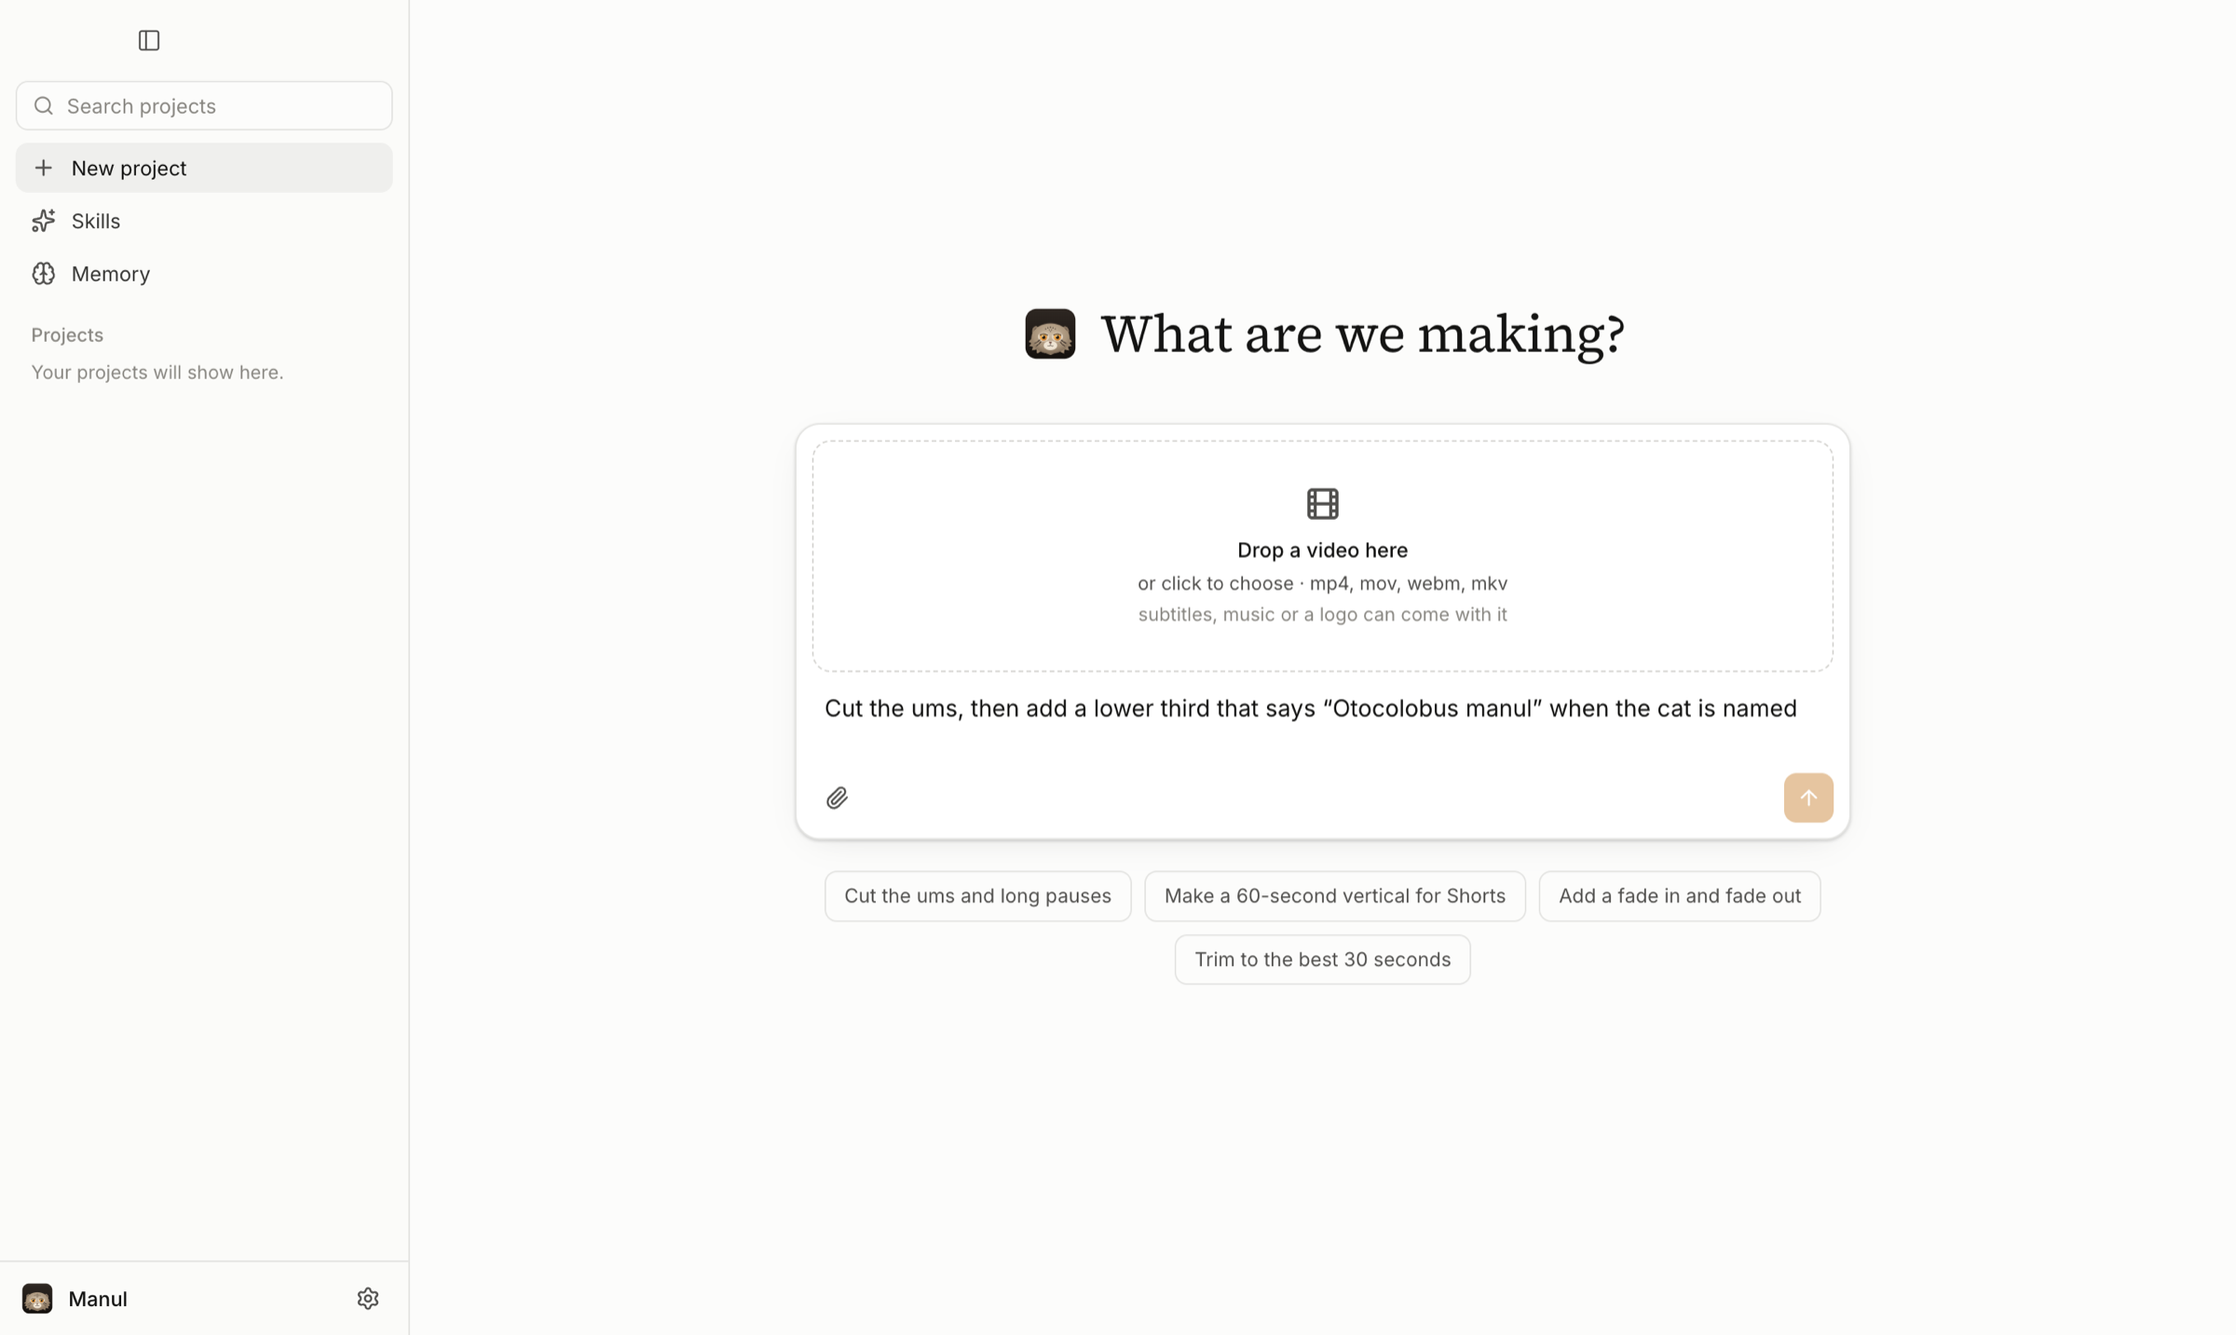
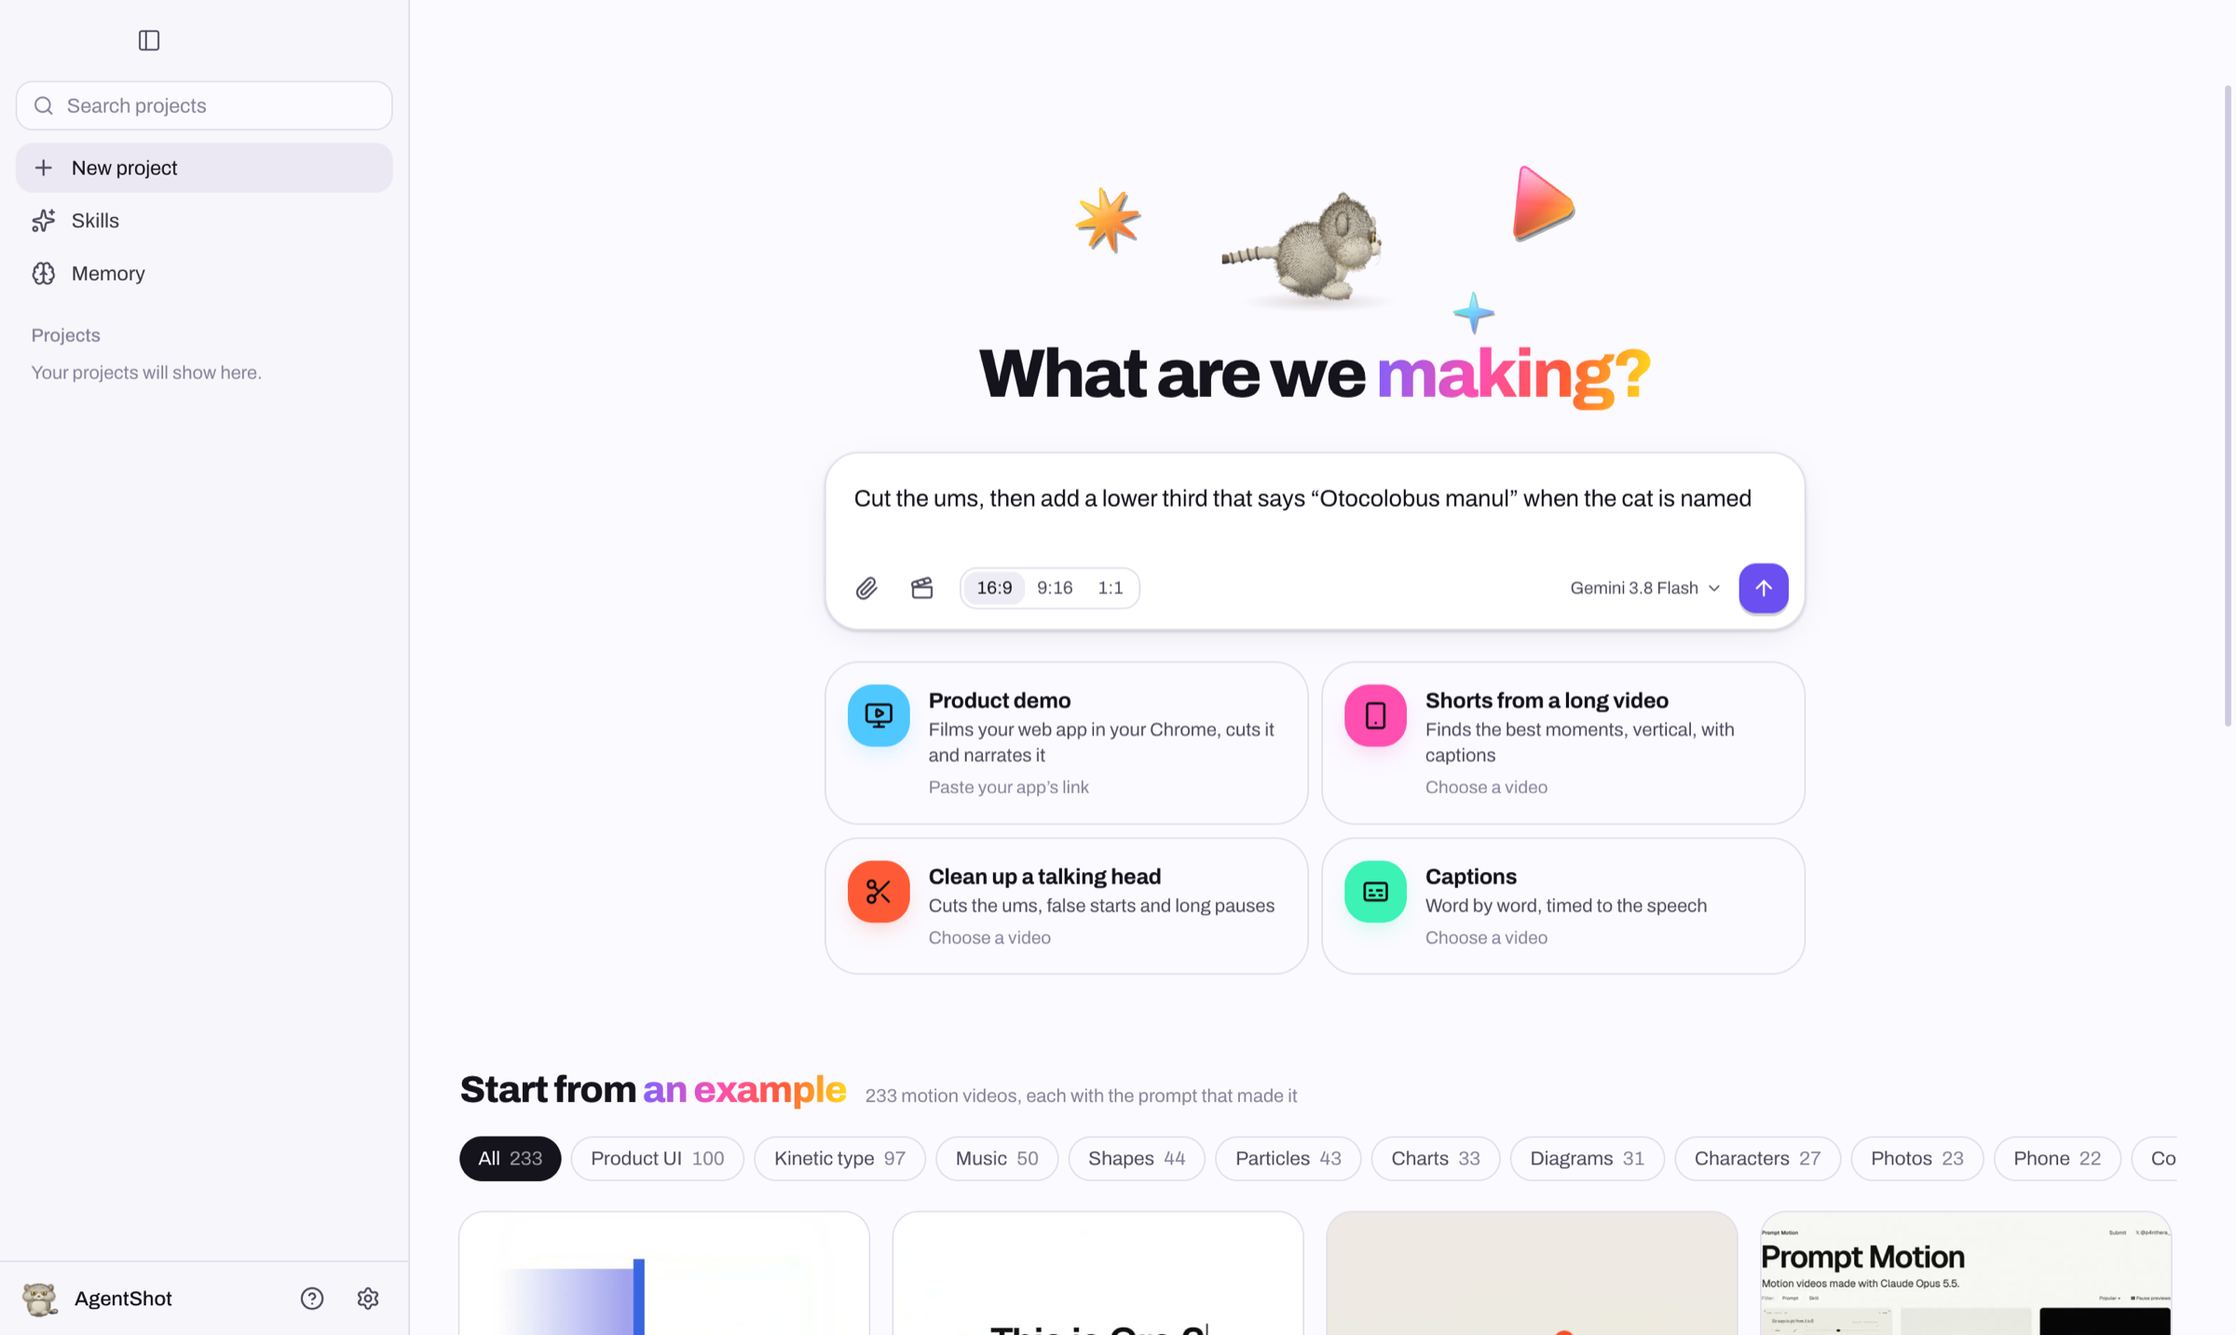
README: a new front page, with download buttons, real renders and custom work
The top is now the banner, three download buttons (Mac and Windows download straight away, Linux goes to Install),
the Intel Mac and Homebrew line, links to each section, and a screenshot of the app as it looks today. The old
screenshot showed the previous look and said "macOS & Linux".

Below it: four facts from the site, the four jobs as tiles with their prompts in real text (readable on a phone),
a strip of the site's three real renders of one clip, the site's comparison table, a Custom work section
(work@agentshot.si) and the site's questions. Windows links download the installer directly.

scripts/screenshot.mjs had stopped matching the start screen: it now dismisses the first-run introduction, picks the
video through Choose files, waits for the transcript, and takes the first three shots in the light theme now that
the app opens dark. docs/start.png, chat.png, inline.png and dark.png are retaken with it.

diff --git a/README.md b/README.md
@@ -3,29 +3,51 @@
 </p>
 
 <p align="center">
-  <b>The video editor you talk to.</b> Say what you want. Point at the frame. Keep the cut, or send it back.
+  <b>The video editor you talk to.</b> Say what you want. Point at the frame. Keep the cut, or send it back.<br>
+  It edits on your own computer, with the AI model you choose.
 </p>
 
 <p align="center">
-  <a href="https://github.com/hormuz-labs/agentshot/releases/latest"><img alt="release" src="https://img.shields.io/github/v/release/hormuz-labs/agentshot?style=for-the-badge&color=FFE01A&labelColor=17151D&label=release"></a>
-  <a href="LICENSE"><img alt="GPL-3.0" src="https://img.shields.io/badge/license-GPL--3.0-FF4FB0?style=for-the-badge&labelColor=17151D"></a>
-  <a href="#install"><img alt="macOS · Windows · Linux · Android" src="https://img.shields.io/badge/macOS%20·%20Windows%20·%20Linux%20·%20Android-4FC8FF?style=for-the-badge&labelColor=17151D"></a>
-  <a href="https://agentshot.si"><img alt="agentshot.si" src="https://img.shields.io/badge/agentshot.si-7B61FF?style=for-the-badge&labelColor=17151D"></a>
+  <a href="https://github.com/hormuz-labs/agentshot/releases/latest/download/AgentShot-arm64.dmg"><img src="docs/readme-dl-mac.png" alt="Download for Mac" height="46"></a>
+  <a href="https://github.com/hormuz-labs/agentshot/releases/latest/download/AgentShot-windows-x64-Setup.exe"><img src="docs/readme-dl-windows.png" alt="Download for Windows" height="46"></a>
+  <a href="#install"><img src="docs/readme-dl-linux.png" alt="Download for Linux" height="46"></a>
 </p>
 
 <p align="center">
-  <a href="https://agentshot.si/#get"><b>Download for Mac, Windows or Linux</b></a> · free and open source · your footage never leaves your computer
+  <sub>Free and open source · your footage never leaves your computer · <a href="https://github.com/hormuz-labs/agentshot/releases/latest/download/AgentShot-x64.dmg">Intel Mac</a> · Homebrew: <code>brew install hormuz-labs/tap/manul</code></sub>
 </p>
 
 <p align="center">
-  <img src="docs/readme-hero.webp" alt="AgentShot: the conversation on the left (“Cut the ums, then add a lower third…”, the steps it took, its reply) and the film on the right with the proposed cut, Before / After, Reject and Accept" width="100%">
+  <a href="https://github.com/hormuz-labs/agentshot/releases/latest"><img alt="Latest release" src="https://img.shields.io/github/v/release/hormuz-labs/agentshot?style=flat-square&color=FFE01A&labelColor=17151D&label=release"></a>
+  <a href="LICENSE"><img alt="License: GPL-3.0" src="https://img.shields.io/badge/license-GPL--3.0-FF4FB0?style=flat-square&labelColor=17151D"></a>
+  <a href="#install"><img alt="macOS, Windows, Linux and Android" src="https://img.shields.io/badge/macOS%20·%20Windows%20·%20Linux%20·%20Android-4FC8FF?style=flat-square&labelColor=17151D"></a>
 </p>
 
-<p align="center"><sub>On a Mac with Homebrew: <code>brew install hormuz-labs/tap/manul</code>. <a href="#install">Every other way to install, and the phone app, below.</a></sub></p>
+<p align="center">
+  <a href="#what-it-makes">What it makes</a> ·
+  <a href="#a-session">A session</a> ·
+  <a href="#what-happens-when-you-say-cut-the-ums">How it works</a> ·
+  <a href="#how-it-compares">Compared</a> ·
+  <a href="#on-your-phone">Phone</a> ·
+  <a href="#install">Install</a> ·
+  <a href="#custom-work">Custom work</a> ·
+  <a href="https://agentshot.si">agentshot.si</a>
+</p>
 
----
+<p align="center">
+  <img src="docs/readme-hero.webp" alt="AgentShot. On the left, the conversation: “Cut the ums, then add a lower third…”, the steps it took and its reply. On the right, the film with the proposed cut, Before / After, Reject and Accept. Three stickers: say it, or point at it, keep it or send it back." width="100%">
+</p>
 
 Editing video is thousands of small decisions made with a mouse. AgentShot keeps the decisions and drops the mouse work: you watch your film and give notes the way a director gives them to an editor, and it makes each change **on your own computer**. Every change comes back as a new version to compare before and after. You keep it, or send it back with a reply.
+
+<table>
+<tr>
+<td align="center" width="25%"><h3>$0</h3>with your own Claude, Gemini or GPT key</td>
+<td align="center" width="25%"><h3>0 uploads</h3>editing and transcription run on your computer</td>
+<td align="center" width="25%"><h3>Every version</h3>kept. Nothing is ever overwritten</td>
+<td align="center" width="25%"><h3>All the code</h3>right here, under the GPL</td>
+</tr>
+</table>
 
 https://github.com/user-attachments/assets/084276fb-6129-47e2-9cba-4724c1432990
 
@@ -33,16 +55,34 @@ https://github.com/user-attachments/assets/084276fb-6129-47e2-9cba-4724c1432990
 
 ## What it makes
 
-<p align="center">
-  <img src="docs/readme-jobs.webp" alt="Four jobs: product demos, from a URL; Shorts and Reels, from any video; clean takes, from your footage; motion graphics, from nothing at all" width="100%">
-</p>
+Each one is a sentence, and the first three are one click on AgentShot's first screen.
 
-Each one is a sentence, and the first three are one click on AgentShot's first screen:
-
-- **Product demos.** *“A walkthrough of app.example.com: sign up and make a first project.”* It tries your product first, shows a storyboard, then [films it in your own Chrome](#no-footage-two-other-ways-in) and cuts it like a person would.
-- **Shorts and Reels.** *“Find the 3 best moments and make each a vertical Short with captions.”* The crop follows whoever is talking, and the captions land word by word.
-- **Clean takes.** *“Cut the ums, false starts and long pauses.”* Each cut falls in the silence between words, and the sound is evened out.
-- **Motion graphics.** Describe it, or [start from one of 233 examples](#no-footage-two-other-ways-in) and say what yours is about.
+<table>
+<tr>
+<td width="50%" valign="top">
+<img src="docs/readme-job-demos.webp" alt="Product demos, from a URL" width="100%"><br><br>
+<i>“A walkthrough of app.example.com: sign up and make a first project.”</i><br><br>
+It tries your product first, shows a storyboard, then <a href="#no-footage-two-other-ways-in">films it in your own Chrome</a> and cuts it like a person would.
+</td>
+<td width="50%" valign="top">
+<img src="docs/readme-job-shorts.webp" alt="Shorts and Reels, from any video" width="100%"><br><br>
+<i>“Find the 3 best moments and make each a vertical Short with captions.”</i><br><br>
+The crop follows whoever is talking, and the captions land word by word.
+</td>
+</tr>
+<tr>
+<td width="50%" valign="top">
+<img src="docs/readme-job-takes.webp" alt="Clean takes, from your footage" width="100%"><br><br>
+<i>“Cut the ums, false starts and long pauses.”</i><br><br>
+Each cut falls in the silence between words, and the sound is evened out.
+</td>
+<td width="50%" valign="top">
+<img src="docs/readme-job-motion.webp" alt="Motion graphics, from nothing at all" width="100%"><br><br>
+<i>“Use this example, but reveal our logo in our colours.”</i><br><br>
+Describe it, or <a href="#no-footage-two-other-ways-in">start from one of 233 examples</a> and say what yours is about.
+</td>
+</tr>
+</table>
 
 And when it's nearly there, [hand the cut to Premiere, Resolve or Final Cut](#things-you-can-just-say) with every cut still trimmable.
 
@@ -67,6 +107,14 @@ You point instead of describing. Press <kbd>B</kbd> and box something on the pic
 <p align="center">
   <img src="docs/point.webp" alt="A box drawn around the cat's face with the note “zoom in on this grumpy face”, then the before / after of the zoom, ready to keep or send back" width="100%">
 </p>
+
+One clip and three notes. Each after is a real render, not a mock-up:
+
+<p align="center">
+  <img src="docs/readme-notes.webp" alt="One clip of a Pallas's cat, and three notes. “Make it cinematic, add his name”: graded, letterboxed, with a lower third. “Punch in on his face”: a close-up that follows him. “Make it a Short with a caption”: the same clip at 9:16 with the caption burned in." width="100%">
+</p>
+
+<p align="center"><sub>Timofey the Pallas's cat, Moscow Zoo, <a href="https://commons.wikimedia.org/wiki/File:%D0%9C%D0%B0%D0%BD%D1%83%D0%BB_%D0%A2%D0%B8%D0%BC%D0%BE%D1%84%D0%B5%D0%B9_%D0%BD%D0%B0_%D1%80%D0%B0%D0%B7%D0%B6%D0%B8%D1%80%D0%BE%D0%B2%D0%BA%D0%B5.webm">CC BY 4.0</a>, edited. <a href="https://agentshot.si/#try">Try the three notes yourself</a> on agentshot.si.</sub></p>
 
 ## What happens when you say “cut the ums”
 
@@ -116,6 +164,18 @@ The agent is durable: it runs on a pi-durable harness backed by SQLite, so a con
 | “put @logo.png bottom right” | <kbd>@</kbd> picks any file, kept version or title by name |
 
 It also knows how different films are cut: talking heads, tutorials, Shorts and Reels, promos, montages, motion graphics, cleanup and repair. These skills are plain files you can read and change.
+
+## How it compares
+
+Not a timeline to operate. Not a slot machine.
+
+| | Timeline editors<br><sub>Premiere, Final Cut, Resolve, CapCut</sub> | Video as code<br><sub>HyperFrames, Remotion</sub> | AI generators<br><sub>Runway, Sora, Veo</sub> | AgentShot |
+| --- | --- | --- | --- | --- |
+| **You** | operate it, cut by cut | describe it, read code | prompt, hope, re-roll | **say it, point at it** |
+| **You look at** | a timeline | a terminal | a prompt box | **your film, before and after** |
+| **Your footage** | yours | yours, plus coded layers | swapped for generated frames | **yours, on your computer** |
+| **Undo** | Ctrl-Z, until it isn't | git, if you use it | start over | **every version, kept** |
+| **Costs** | a subscription, mostly | free, plus your agent | credits | **free with your key** |
 
 ## No footage? Two other ways in
 
@@ -170,9 +230,9 @@ The phone app doesn't edit anything itself. It's a remote for the editor on your
 | Platform | |
 | --- | --- |
 | **macOS** (Apple silicon and Intel) | [Apple silicon `.dmg`](https://github.com/hormuz-labs/agentshot/releases/latest/download/AgentShot-arm64.dmg) · [Intel `.dmg`](https://github.com/hormuz-labs/agentshot/releases/latest/download/AgentShot-x64.dmg), signed and notarized. Or `brew install hormuz-labs/tap/manul` |
-| **Windows 10 (1903+) / 11, x64** | [`AgentShot-windows-x64-Setup.exe`](https://github.com/hormuz-labs/agentshot/releases/latest) |
+| **Windows 10 (1903+) / 11, x64** | [`AgentShot-windows-x64-Setup.exe`](https://github.com/hormuz-labs/agentshot/releases/latest/download/AgentShot-windows-x64-Setup.exe), one offline installer |
 | **Debian / Ubuntu** | the signed apt repository, [below](#debian--ubuntu) |
-| **Other Linux** | AppImage from the [latest release](https://github.com/hormuz-labs/agentshot/releases/latest) |
+| **Other Linux** | AppImage (x86-64 or arm64) from the [latest release](https://github.com/hormuz-labs/agentshot/releases/latest) |
 | **Android** | build from [`mobile/`](mobile/README.md) until the Play Store listing is public |
 
 <details>
@@ -193,7 +253,7 @@ If it says `brew: command not found`, install [Homebrew](https://brew.sh) first,
 <summary><b>Windows</b></summary>
 <br>
 
-Download `AgentShot-windows-x64-Setup.exe` from the [latest release](https://github.com/hormuz-labs/agentshot/releases/latest) and run it. It's a single offline installer: no wizard, and no Node, Python, FFmpeg or developer tools needed. It installs for your account, opens AgentShot, and updates itself from then on. The installer is signed with Hormuz Labs' own certificate, so SmartScreen may ask once: **More info → Run anyway**.
+Download [`AgentShot-windows-x64-Setup.exe`](https://github.com/hormuz-labs/agentshot/releases/latest/download/AgentShot-windows-x64-Setup.exe) and run it. It's a single offline installer: no wizard, and no Node, Python, FFmpeg or developer tools needed. It installs for your account, opens AgentShot, and updates itself from then on. The installer is signed with Hormuz Labs' own certificate, so SmartScreen may ask once: **More info → Run anyway**.
 
 </details>
 
@@ -222,6 +282,60 @@ Install AgentShot from https://github.com/hormuz-labs/agentshot. On macOS run `b
 
 **First run.** Sign in under **Settings → Keys** to use AgentShot's credits, or bring your own Claude, Gemini or OpenAI key (your own keys are used first). A short guided start takes you from a key to your first note. You can replay it any time from <kbd>⌘K</kbd> / <kbd>Ctrl+K</kbd>.
 
+## Custom work
+
+Want it done for you? We take custom work: films made for you, and AgentShot fitted to the way your team works. Write to **[work@agentshot.si](mailto:work@agentshot.si)** and tell us what you have in mind.
+
+## Questions
+
+<details>
+<summary><b>Does my video get uploaded anywhere?</b></summary>
+<br>
+
+No. Editing, transcription and analysis run on your computer. The AI model reads text and a few still frames it asks to look at. It never gets the video file. AgentShot Cloud and cloud workers are there if you choose them, and only then does a project leave your computer.
+
+</details>
+
+<details>
+<summary><b>Is it really free?</b></summary>
+<br>
+
+Yes. AgentShot is open source under the [GNU GPL v3 or later](LICENSE) and runs on your computer. Bring your own Claude, Gemini or OpenAI key (or any compatible endpoint) and AgentShot costs nothing, for good: you pay your model provider directly, usually cents per edit. No account needed. If you'd rather not manage a key, sign in and use AgentShot's credits: a new account starts with 1,000. See [pricing](https://agentshot.si/pricing/).
+
+</details>
+
+<details>
+<summary><b>Do I need to know video editing?</b></summary>
+<br>
+
+No. If you can describe what you want to a person, you can direct AgentShot. If you do know editing, you'll get there faster: it understands “J-cut”, “punch in” and “duck the music”.
+
+</details>
+
+<details>
+<summary><b>Which AI does it use?</b></summary>
+<br>
+
+Your pick, per project: Claude, Gemini, GPT, or any OpenAI- or Anthropic-compatible endpoint. Your keys stay in your system's keychain, and the agent's sandbox can't read them.
+
+</details>
+
+<details>
+<summary><b>Can I still edit by hand?</b></summary>
+<br>
+
+Yes. It edits a timeline, not your pixels. Cuts, titles, captions and music stay editable, so you can drag, resize or retype anything on the picture afterwards. Or send the cut to Premiere, Resolve or Final Cut and finish there.
+
+</details>
+
+<details>
+<summary><b>What can't it do yet?</b></summary>
+<br>
+
+Publish straight to YouTube, or generate camera shots. Both are on the [roadmap](ROADMAP.md).
+
+</details>
+
 ## What's in this repository
 
 | | |
@@ -243,5 +357,5 @@ To run it from source, see **[CONTRIBUTING.md](CONTRIBUTING.md)**. For how the s
   <img src="build/icons/64x64.png" width="28" alt=""><br>
   <sub>The cat is a <b>manul</b>, a Pallas's cat: small, patient, and unbothered by anything. It sits beside your message box, follows your cursor, and waves when an edit is done.</sub><br><br>
   <sub>Free and open source under the <a href="LICENSE">GNU GPL v3 or later</a> · <a href="THIRD_PARTY_NOTICES.md">Third-party notices</a> · Made by <a href="https://github.com/hormuz-labs">Hormuz Labs</a></sub><br>
-  <sub>If you like where it's going, a ⭐ helps other people find it.</sub>
+  <sub>If you like where it's going, a ⭐ helps other people find it. Questions: <a href="mailto:support@agentshot.si">support@agentshot.si</a> · Custom work: <a href="mailto:work@agentshot.si">work@agentshot.si</a></sub>
 </p>
